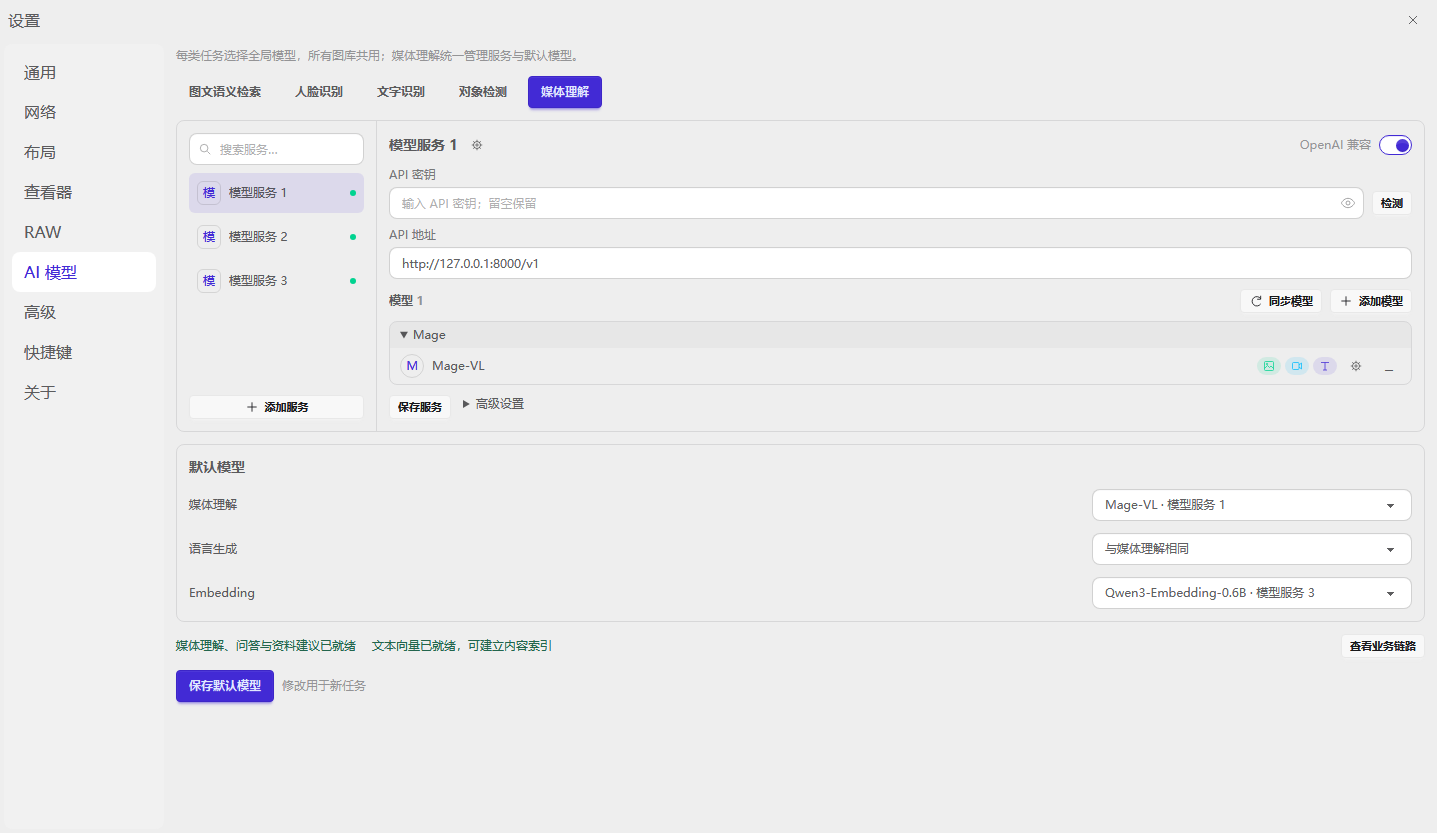
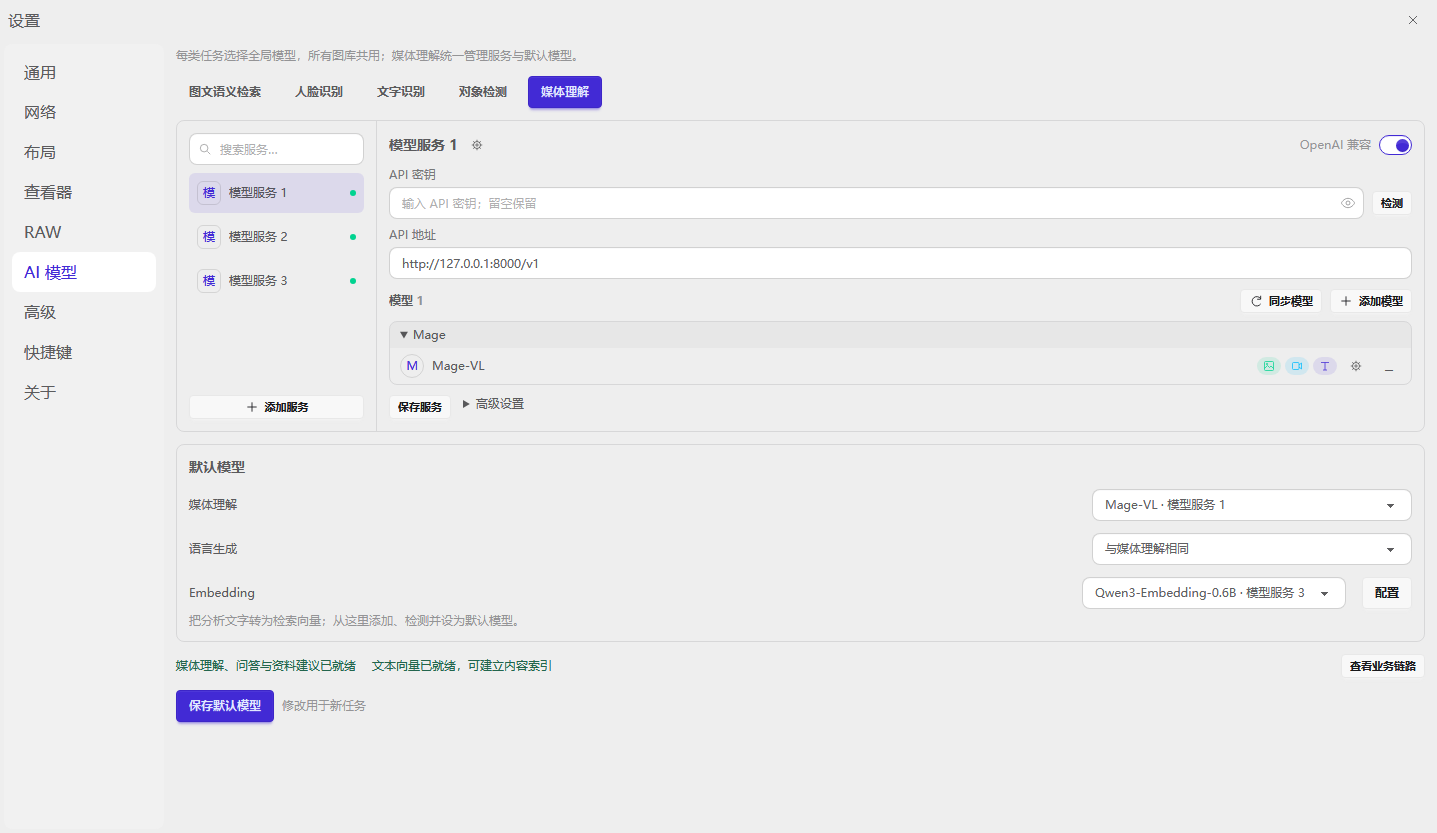
docs(design): 简化 Embedding 配置入口与默认绑定流程

diff --git a/design/media-understanding/views-embedding-setup.js b/design/media-understanding/views-embedding-setup.js
@@ -1,0 +1,70 @@
+// Design-only form: configuration and detection are kept in memory, with no network calls.
+let embeddingSetupSecret='';
+function openEmbeddingSetup({add=false,providerId=null,modelId=null}={}){
+  const model=add?null:modelId?MODELS.find(m=>m.id===modelId):roleModel('textEmbed');
+  const p=model?service(model.providerId):providerId?service(providerId):null;
+  const e=model?.embedding;
+  embeddingSetupSecret='';
+  App.state.embeddingDraft={modelId:model?.id||null,serviceId:p?.id||'new',serviceName:p?.name||'',baseUrl:p?.baseUrl||'',
+    remoteId:model?.remoteId||'',name:model?.name||'',preset:e?.queryInstruction===DEPLOYMENT.embedding.queryInstruction?'qwen3':e?.queryInstruction?'custom':'plain',
+    queryInstruction:e?.queryInstruction||'',detected:model&&modelReady(model)?e?.dimensions||null:null};
+  navigate(add?'embeddingAdd':'embedding');
+}
+function embeddingSetupView(add=false){
+  App.state.task='media';
+  if(!App.state.embeddingDraft){
+    const model=add?null:UI.model('embed-text-api'),p=model?service(model.providerId):null,e=model?.embedding;
+    App.state.embeddingDraft={modelId:model?.id||null,serviceId:p?.id||'new',serviceName:p?.name||'',baseUrl:p?.baseUrl||'',remoteId:model?.remoteId||'',name:model?.name||'',
+      preset:e?'qwen3':'plain',queryInstruction:e?.queryInstruction||'',detected:model&&modelReady(model)?e?.dimensions||null:null};
+  }
+  const d=App.state.embeddingDraft,existing=d.serviceId!=='new';
+  return UI.settingsWindow(`<p class="helper">把分析文字和搜索问题转为向量，用于语义检索。</p>${taskButtons()}<div class="between"><button class="text-button" data-nav="understand">‹ 返回模型服务</button>${!d.modelId?nativeButton('填入部署脚本示例','embedding-example'):nativeButton('添加其他 Embedding 模型','new-embedding')}</div>${configCard('服务连接',`${UI.field('所属服务',`<select class="select" data-embedding-setup="serviceId" aria-label="Embedding 所属服务"><option value="new" ${existing?'':'selected'}>＋ 添加新服务</option>${PROVIDERS.map(p=>`<option value="${p.id}" ${p.id===d.serviceId?'selected':''}>${UI.escape(service(p.id).name)}</option>`).join('')}</select>`)}${UI.field('API 地址',`<input class="input" data-embedding-setup="baseUrl" value="${UI.escape(d.baseUrl)}" placeholder="填写向量服务的 API 基础地址，例如 https://…/v1" aria-label="Embedding API 地址">`)}${UI.field('API Key',`<input class="input" type="password" data-embedding-setup="apiKey" value="${UI.escape(embeddingSetupSecret)}" autocomplete="off" placeholder="${existing?'留空保留该服务已保存的密钥':'按服务要求填写'}" aria-label="Embedding API Key">`)}<p class="helper">${existing?'复用并编辑所选服务的连接；保存后该服务下其他模型也使用同一地址和密钥。':'保存时创建一个可自由命名的服务；以后可在该服务下添加其他模型。'}</p>`)}${configCard('Embedding 模型',`${UI.field('Model ID',`<input class="input" data-embedding-setup="remoteId" value="${UI.escape(d.remoteId)}" placeholder="例如：qwen3-embedding-0.6b" aria-label="Embedding Model ID">`)}<p class="helper">从服务提供方复制向量模型 ID；它与上方的服务名称不同。</p><div class="row"><span class="badge badge-sm">文本 Embedding</span><span class="helper">用于分析描述与查询编码。</span></div>`)}<details class="provider-details"><summary>高级设置（通常无需修改）</summary><div class="embedding-advanced">${UI.field('服务显示名称',`<input class="input" data-embedding-setup="serviceName" value="${UI.escape(d.serviceName)}" placeholder="留空自动命名">`)}${UI.field('模型显示名称',`<input class="input" data-embedding-setup="name" value="${UI.escape(d.name)}" placeholder="留空使用 Model ID">`)}${UI.field('编码方案',`<select class="select" data-embedding-setup="preset" aria-label="Embedding 编码方案"><option value="plain" ${d.preset==='plain'?'selected':''}>通用文本</option><option value="qwen3" ${d.preset==='qwen3'?'selected':''}>Qwen3-Embedding 检索</option><option value="custom" ${d.preset==='custom'?'selected':''}>自定义查询指令</option></select>`)}${d.preset!=='plain'?UI.field('查询指令',`<input class="input" data-embedding-setup="queryInstruction" value="${UI.escape(d.queryInstruction)}">`):''}<p class="helper">维度由检测结果自动填写；查询和入库编码方案应与模型说明一致。</p></div></details><div class="embedding-detection" role="status"><strong id="embedding-detection-status">${d.detected?'检测通过 · 文本输入 → '+d.detected+' 维向量':'尚未检测'}</strong><p class="helper">分别验证正文与查询向量；不使用聊天请求检测向量模型。</p></div><div class="row wrap"><button class="btn btn-sm" data-action="test-embedding-setup">检测 Embedding</button><button class="btn btn-sm btn-primary" data-action="save-embedding-setup" ${d.detected?'':'disabled'}>保存并设为默认 Embedding</button></div>`,{title:'填写连接、检测并设为默认',notes:[['从默认项直接进入','媒体理解页的默认 Embedding 旁始终有“配置”按钮；未配置时可直接添加，已配置时可编辑或添加其他模型。无需知道某个预置服务编号。'],['最少只填写连接和 Model ID','选择已有服务，或在同一表单新建服务，填写 API 地址、按服务要求填写 Key、填写 Embedding Model ID。文本 Embedding 能力自动选中；检测读取维度。'],['一次保存完成绑定','检测通过后点击“保存并设为默认 Embedding”，创建或更新服务与模型并绑定默认用途。地址与密钥仍归属于服务，模型只引用服务，不复制连接。保存不会自动分析全库或创建向量任务。'],['高级参数折叠','显示名和查询编码放在高级设置。部署脚本示例自动填入 8002、固定 Model ID 和 Qwen3 查询方案；其他 API 按其模型说明配置。'],['原型边界','此表单只演示内存状态，不发送真实请求。密钥草稿不进入可导出的 App 状态或保存配置；正式实现应由 Rust 写入系统凭据库。']]});
+}
+function updateEmbeddingSetup(field,value,doc){
+  const d=App.state.embeddingDraft;
+  if(field==='apiKey')embeddingSetupSecret=value;else d[field]=value;
+  d.detected=null;
+  if(field==='serviceId'){
+    const p=value==='new'?null:service(value);d.baseUrl=p?.baseUrl||'';d.serviceName=p?.name||'';embeddingSetupSecret='';render();return;
+  }
+  if(field==='preset'){
+    d.queryInstruction=value==='qwen3'?DEPLOYMENT.embedding.queryInstruction:value==='plain'?'':d.queryInstruction;render();return;
+  }
+  if(doc){doc.getElementById('embedding-detection-status').textContent='配置已修改，请重新检测';doc.querySelector('[data-action=save-embedding-setup]').disabled=true;}
+}
+function testEmbeddingSetup(){
+  const d=App.state.embeddingDraft;
+  try{
+    const url=new URL(d.baseUrl.trim());
+    if(!['http:','https:'].includes(url.protocol)||url.username||url.password||url.search||url.hash)throw new Error();
+  }catch{toast('请填写不含密钥、查询参数或片段的 HTTP(S) API 基础地址。');return;}
+  if(!d.remoteId.trim()||d.remoteId.trim().length>256||/[\x00-\x1f\x7f]/.test(d.remoteId)){toast('请填写有效的 Embedding Model ID。');return;}
+  const known=MODELS.find(m=>m.providerId===d.serviceId&&m.remoteId===d.remoteId.trim());
+  if(known&&!known.caps.includes('embed_text')){toast('这个样例模型提供生成能力，请填写文本 Embedding 模型 ID。');return;}
+  // The real implementation learns this from the API; these are explicit design fixtures.
+  const model=MODELS.find(m=>m.id===d.modelId);
+  d.detected=d.preset==='qwen3'?DEPLOYMENT.embedding.dimensions:model?.embedding?.dimensions||1536;
+  render();toast('模拟文本向量检测通过；未请求真实 API。');
+}
+function saveEmbeddingSetup(){
+  const d=App.state.embeddingDraft;if(!d.detected){toast('请先检测 Embedding。');return;}
+  const fingerprint=model=>model?JSON.stringify([model.id,model.remoteId,model.modelRevision,model.embedding,service(model.providerId).baseUrl]):'';
+  const previous=fingerprint(roleModel('textEmbed'));
+  let providerId=d.serviceId;
+  if(providerId==='new'){
+    providerId='custom-'+(PROVIDERS.length+1);PROVIDERS.push({id:providerId,name:d.serviceName.trim()||'模型服务 '+(PROVIDERS.length+1),baseUrl:d.baseUrl.trim(),enabled:true});
+  }else{
+    const old=service(providerId),changed=old.baseUrl!==d.baseUrl.trim()||!!embeddingSetupSecret;
+    App.state.providerOverrides[providerId]={...App.state.providerOverrides[providerId],name:d.serviceName.trim()||old.name,baseUrl:d.baseUrl.trim(),enabled:true};
+    if(changed){App.state.dirtyProviders=[...new Set([...App.state.dirtyProviders,providerId])];MODELS.filter(m=>m.providerId===providerId).forEach(m=>delete App.state.verifiedModels[m.id]);}
+  }
+  let model=MODELS.find(m=>m.id===d.modelId)||MODELS.find(m=>m.providerId===providerId&&m.remoteId===d.remoteId.trim());
+  const embedding={format:'openai-text',dimensions:d.detected,documentEncoding:'plain-text',queryInstruction:d.preset==='plain'?'':d.queryInstruction};
+  if(!model){model={id:'embedding-custom-'+(MODELS.length+1),mode:'API',location:'API',group:'其他',caps:['embed_text'],api:'embeddings',modelRevision:'unknown'};MODELS.push(model);}
+  model.caps=[...new Set([...model.caps,'embed_text'])];
+  Object.assign(model,{providerId,remoteId:d.remoteId.trim(),name:d.name.trim()||d.remoteId.trim(),embedding,status:'ready',state:'示例已验证'});
+  if(previous!==fingerprint(model))App.state.indexBuilt=false;
+  App.state.verifiedModels[model.id]=true;App.state.roles.textEmbed=model.id;App.state.providerId=providerId;App.state.chainVerified=false;App.state.indexEnabled=true;
+  embeddingSetupSecret='';App.state.embeddingDraft=null;navigate('understand');toast('已在原型中保存并设为默认 Embedding；尚未建立新的媒体索引。');
+}
+const EmbeddingSetupViews={embedding(){return embeddingSetupView();},embeddingAdd(){return embeddingSetupView(true);}};

diff --git a/design/media-understanding/app.js b/design/media-understanding/app.js
@@ -1,4 +1,4 @@
-const VIEWS={...ServiceViews,...LibraryViews,...MediaViews,...FlowViews,...NativeSettingsViews};
+const VIEWS={...ServiceViews,...LibraryViews,...MediaViews,...FlowViews,...NativeSettingsViews,...EmbeddingSetupViews};
 let toastTimer;
 let messageSerial=10;
 function toast(text){const box=document.getElementById('toast');box.textContent=text;box.classList.add('visible');clearTimeout(toastTimer);toastTimer=setTimeout(()=>box.classList.remove('visible'),3000);}
@@ -84,7 +84,7 @@ function startJob(){
   if(roles.some(role=>!roleReady(role))){toast('所选服务已停用或模型能力待验证，请到默认模型检查。');return;}
   if(scopeData().videos&&!UI.model(App.state.roles.video).caps.includes('video_frames')){toast('当前媒体理解模型未提供视频采样帧能力，请修改本次范围或模型。');return;}
   App.state.createdJobs++;App.state.jobScope=App.state.scope;App.state.jobStopped=false;
-  App.state.job={scope:App.state.scope,roles:{...App.state.roles},providers:PROVIDERS.map(p=>({...service(p.id)})),indexEnabled:App.state.indexEnabled,fields:{...App.state.fields},existingTagsOnly:App.state.existingTagsOnly};
+  App.state.job={scope:App.state.scope,roles:{...App.state.roles},providers:PROVIDERS.map(p=>({...service(p.id)})),models:JSON.parse(JSON.stringify(MODELS)),indexEnabled:App.state.indexEnabled,fields:{...App.state.fields},existingTagsOnly:App.state.existingTagsOnly};
   if(App.state.indexEnabled)App.state.indexBuilt=true;
   navigate('task');
 }
@@ -95,7 +95,7 @@ function runSearch(){
 }
 function handleClick(event){
   const provider=event.target.closest('[data-provider]');if(provider){App.state.providerId=provider.dataset.provider;App.state.apiTested=false;App.state.renamingService=false;navigate('api');return;}
-  const modelSettings=event.target.closest('[data-model-settings]');if(modelSettings){App.state.editingModelId=modelSettings.dataset.modelSettings;App.state.providerId=UI.model(App.state.editingModelId).providerId;navigate('model');return;}
+  const modelSettings=event.target.closest('[data-model-settings]');if(modelSettings){App.state.editingModelId=modelSettings.dataset.modelSettings;const model=UI.model(App.state.editingModelId);App.state.providerId=model.providerId;if(model.caps.includes('embed_text'))openEmbeddingSetup({modelId:model.id});else navigate('model');return;}
   const task=event.target.closest('[data-task]');if(task){App.state.task=task.dataset.task;navigate(App.state.task==='media'?'understand':'models');return;}
   const cap=event.target.closest('[data-filter]');if(cap){App.state.filter=cap.dataset.filter;render();return;}
   const indexFilter=event.target.closest('[data-index-filter]');if(indexFilter){indexFilter.parentElement.querySelectorAll('button').forEach(b=>b.classList.remove('active'));indexFilter.classList.add('active');toast('示例：筛选分析与索引状态。');return;}
@@ -108,12 +108,16 @@ function handleClick(event){
   if(action==='rename-service'){App.state.renamingService=true;render();return;}
   if(action==='toggle-api-key'){const field=target.ownerDocument.getElementById('service-api-key');field.type=field.type==='password'?'text':'password';target.setAttribute('aria-label',field.type==='password'?'显示 API 密钥':'隐藏 API 密钥');return;}
   if(action==='remove-provider-model'){toast('移除模型入口示意；实际操作前检查默认用途和任务引用。');return;}
-  if(action==='setup-embedding'){App.state.providerId='service-3';navigate('api');return;}
+  if(action==='setup-embedding'){openEmbeddingSetup({add:!roleModel('textEmbed')});return;}
+  if(action==='new-embedding'){openEmbeddingSetup({add:true});return;}
+  if(action==='test-embedding-setup'){testEmbeddingSetup();return;}
+  if(action==='save-embedding-setup'){saveEmbeddingSetup();return;}
+  if(action==='embedding-example'){embeddingSetupSecret='';const d=App.state.embeddingDraft,p=service('service-3'),m=UI.model('embed-text-api');Object.assign(d,{modelId:m.id,serviceId:p.id,serviceName:p.name,baseUrl:p.baseUrl,remoteId:m.remoteId,name:m.name,preset:'qwen3',queryInstruction:DEPLOYMENT.embedding.queryInstruction,detected:null});render();return;}
   if(action==='use-embedding'){const m=UI.model(App.state.editingModelId);if(!m.caps.includes('embed_text')||!modelReady(m)){toast('请先启用服务并检测文档／查询向量。');return;}App.state.roles.textEmbed=m.id;App.state.indexEnabled=true;navigate('understand');return;}
   if(action==='verify-chain'){if(!roleReady('image','image')||!roleReady('text','text')||!roleReady('textEmbed','embed_text')){toast('请先完成所需模型配置与能力检测。');return;}App.state.chainVerified=true;render();toast('已模拟验证图文、结构化分析、入库／查询向量、持久化召回和证据问答；未请求真实服务。');return;}
   if(action==='remote-guide'){window.open('../../scripts/ai-server/README.md','_blank');return;}
   if(action==='sync-models'){toast('模拟同步当前服务模型；不改变默认模型，未发送真实网络请求。');return;}
-  if(action==='add-provider-model'){toast('示例：可手填服务端模型 ID；不支持列举模型的服务也可配置。');return;}
+  if(action==='add-provider-model'){const rows=MODELS.filter(m=>m.providerId===App.state.providerId);if(rows.length&&rows.every(m=>m.caps.includes('embed_text'))){openEmbeddingSetup({add:true,providerId:App.state.providerId});return;}toast('示例：可手填服务端模型 ID；Embedding 也可从默认项旁的配置入口添加。');return;}
   if(action==='check-model'){const m=UI.model(App.state.editingModelId);if(m.caps.includes('embed_multimodal')){toast('多模态 Embedding 接口尚未接入，当前保持待验证。');return;}if(m.caps.includes('embed_text')&&(!m.embedding||!Number.isInteger(m.embedding.dimensions)||m.embedding.dimensions<1||m.embedding.dimensions>8192)){toast('请补全向量接口与维度配置。');return;}m.status='ready';m.state='示例已验证';App.state.verifiedModels[m.id]=true;render();toast('模拟能力检测通过；没有调用真实模型。');return;}
   if(action==='save-model'){toast('模型属性保存示意；连接信息仍继承所属服务。');return;}
   if(VIEWS[action]){navigate(action);return;}
@@ -169,11 +173,12 @@ function handleClick(event){
 document.addEventListener('click',handleClick);
 function handleChange(event){
   const el=event.target;
+  if(el.dataset.embeddingSetup){updateEmbeddingSetup(el.dataset.embeddingSetup,el.value,el.ownerDocument);return;}
   if(el.dataset.embeddingField){const m=UI.model(App.state.editingModelId),key=el.dataset.embeddingField;m.embedding||={format:'openai-text',dimensions:1024,documentEncoding:'plain-text',queryInstruction:''};m.embedding[key]=key==='dimensions'?Number(el.value):el.value;m.status='untested';m.state='编码方案待验证';delete App.state.verifiedModels[m.id];App.state.chainVerified=false;render();return;}
   if(el.hasAttribute('data-ai-model')){App.state.nativeEditingByTask={...App.state.nativeEditingByTask,[App.state.task]:el.value};App.state.editingModelId=el.value;render();return;}
   if(el.dataset.providerEnabled){App.state.chainVerified=false;const id=el.dataset.providerEnabled;App.state.providerOverrides[id]={...App.state.providerOverrides[id],enabled:el.checked};render();return;}
   if(el.dataset.modelField||el.dataset.modelCap){const m=UI.model(App.state.editingModelId);if(el.dataset.modelField)m[el.dataset.modelField]=el.value;else{const caps=new Set(m.caps);el.checked?caps.add(el.dataset.modelCap):caps.delete(el.dataset.modelCap);m.caps=[...caps];}if(el.dataset.modelCap||el.dataset.modelField==='remoteId'){App.state.chainVerified=false;m.status='untested';m.state='待验证';delete App.state.verifiedModels[m.id];}render();return;}
-  if(el.dataset.serviceField){const id=App.state.providerId,key=el.dataset.serviceField;App.state.providerOverrides[id]={...App.state.providerOverrides[id],[key]:el.value};if(key==='name')App.state.renamingService=false;if(key==='baseUrl'){App.state.chainVerified=false;App.state.apiTested=false;App.state.dirtyProviders=[...new Set([...App.state.dirtyProviders,id])];MODELS.filter(m=>m.providerId===id).forEach(m=>delete App.state.verifiedModels[m.id]);}render();return;}
+  if(el.dataset.serviceField){const id=App.state.providerId,key=el.dataset.serviceField;App.state.providerOverrides[id]={...App.state.providerOverrides[id],[key]:el.value};if(key==='name')App.state.renamingService=false;if(key==='baseUrl'){if(roleModel('textEmbed')?.providerId===id)App.state.indexBuilt=false;App.state.chainVerified=false;App.state.apiTested=false;App.state.dirtyProviders=[...new Set([...App.state.dirtyProviders,id])];MODELS.filter(m=>m.providerId===id).forEach(m=>delete App.state.verifiedModels[m.id]);}render();return;}
   if(el.id==='compact-provider'){App.state.providerId=el.value;App.state.apiTested=false;App.state.renamingService=false;navigate('api');return;}
   if(el.id==='screen-select'){const s=SCREENS[Number(el.value)];navigate(s.id,Object.fromEntries(new URLSearchParams(s.query||'')));return;}
   if(el.dataset.role){const role=el.dataset.role;if(role==='text'){App.state.followMediaForText=el.value==='@media';App.state.roles.text=App.state.followMediaForText?App.state.roles.image:el.value;}else App.state.roles[role]=el.value;if(role==='image'){App.state.roles.video=el.value;if(App.state.followMediaForText)App.state.roles.text=el.value;}App.state.chainVerified=false;render();return;}
@@ -184,6 +189,7 @@ function handleChange(event){
 }
 document.addEventListener('change',handleChange);
 function handleInput(event){
+  if(event.target.dataset.embeddingSetup){updateEmbeddingSetup(event.target.dataset.embeddingSetup,event.target.value,event.target.ownerDocument);return;}
   if(event.target.id!=='provider-search')return;
   App.state.providerSearch=event.target.value;
   const doc=event.target.ownerDocument,query=App.state.providerSearch.trim().toLowerCase();

diff --git a/design/media-understanding/views-media.js b/design/media-understanding/views-media.js
@@ -7,18 +7,18 @@ function photoStage({detail=false}={}) {
 }
 function qaMessage(m) {
   if(m.role==='user')return `<div class="qa-message user"><span class="message-label">你</span><p>${UI.escape(m.text)}</p></div>`;
-  return `<div class="qa-message assistant" data-msg="${m.id}"><div class="between"><span class="message-label">${m.basis==='visual'?'根据本次视觉复核':m.basis==='insufficient'?'已有证据不足':'根据已保存记录'}</span>${UI.pill(m.basis==='visual'?'已复核当前图片':m.basis==='insufficient'?'无法确定':'未重读原图',m.basis==='insufficient'?'warn':'')}</div><p>${UI.escape(m.text)}</p>${m.ref?`<div class="source-row">${UI.sourceChip(m.ref)}${m.basis!=='insufficient'?'<button class="text-button" data-action="adopt-answer">采用为说明</button>':''}</div>`:''}${m.basis==='insufficient'?`<div class="inspection-request"><span>仅检查当前图片 1 张，使用 ${modelName('image')}。</span>${UI.button('复核当前图片','inspect-current','small quiet','image')}</div>`:''}${m.basis==='visual'?`<div class="inspection-proof"><img src="assets/building-detail.jpg" alt="从示例原图截取的复核区域"><span>依据：当前图片区域<br>范围：仅此图片<br>正式资料：未自动修改</span></div>`:''}</div>`;
+  return `<div class="qa-message assistant" data-msg="${m.id}"><div class="between"><span class="message-label">${m.basis==='visual'?'根据本次视觉复核':m.basis==='insufficient'?'已有证据不足':'根据已保存记录'}</span>${UI.pill(m.basis==='visual'?'已复核当前图片':m.basis==='insufficient'?'无法确定':'未重读原图',m.basis==='insufficient'?'warn':'')}</div><p>${UI.escape(m.text)}</p>${m.ref?`<div class="source-row">${UI.sourceChip(m.ref)}${m.basis!=='insufficient'?'<button class="text-button" data-action="adopt-answer">采用为说明</button>':''}</div>`:''}${m.basis==='insufficient'?`<div class="inspection-request"><span>仅检查当前图片 1 张，使用 ${UI.escape(modelName('image'))}。</span>${UI.button('复核当前图片','inspect-current','small quiet','image')}</div>`:''}${m.basis==='visual'?`<div class="inspection-proof"><img src="assets/building-detail.jpg" alt="从示例原图截取的复核区域"><span>依据：当前图片区域<br>范围：仅此图片<br>正式资料：未自动修改</span></div>`:''}</div>`;
 }
 const MediaViews={
   viewer() {
-    return UI.shell(`<div class="v2-viewer">${mediaToolbar('analysis')}<div class="viewer-layout">${photoStage()}<aside class="v2-analysis-panel">${mediaPanelHeader()}<div class="panel-tabs"><button class="active">分析记录</button><button data-nav="qa">针对本图提问</button></div><div class="v2-panel-scroll"><div class="between"><h3>图片理解</h3>${UI.pill('分析已保存','ok')}</div><div class="analysis-source"><span>${modelName('image')} · ${UI.model(App.state.roles.image).location}</span><button class="text-button" data-action="reanalyze-current">重新分析</button></div><div class="analysis-text"><p>群山与森林环绕着平静的湖面，近处的木屋依水而建。云雾掠过山间，山体与天空倒映在水中。</p><div class="source-row">${UI.sourceChip('分析记录 A1048')}${UI.pill('文本向量已就绪','ok')}</div></div>
+    return UI.shell(`<div class="v2-viewer">${mediaToolbar('analysis')}<div class="viewer-layout">${photoStage()}<aside class="v2-analysis-panel">${mediaPanelHeader()}<div class="panel-tabs"><button class="active">分析记录</button><button data-nav="qa">针对本图提问</button></div><div class="v2-panel-scroll"><div class="between"><h3>图片理解</h3>${UI.pill('分析已保存','ok')}</div><div class="analysis-source"><span>${UI.escape(modelName('image'))} · ${UI.model(App.state.roles.image).location}</span><button class="text-button" data-action="reanalyze-current">重新分析</button></div><div class="analysis-text"><p>群山与森林环绕着平静的湖面，近处的木屋依水而建。云雾掠过山间，山体与天空倒映在水中。</p><div class="source-row">${UI.sourceChip('分析记录 A1048')}${UI.pill('文本向量已就绪','ok')}</div></div>
       <div class="generated-field"><div class="generated-label"><span>标题建议</span><span class="small-label">正式标题：${App.state.title?'已填写':'空白'}</span></div><div class="suggestion"><div id="title-proposal" class="suggestion-title" contenteditable="true" role="textbox" aria-label="标题建议">山湖与木屋</div><div class="actions">${UI.button('采用标题','adopt-title','small primary','check')}</div></div></div>
       <div class="generated-field"><div class="generated-label"><span>说明建议</span><button class="text-button" data-action="polish-description">用语言模型润色</button></div><div class="suggestion"><p id="description-proposal" contenteditable="true" role="textbox" aria-label="说明建议">群山、森林与湖畔木屋相映，平静的水面映出山体和天空。</p><div class="actions">${UI.button('采用说明','adopt-description','small quiet')}</div></div></div>
       <div class="generated-field"><div class="generated-label"><span>标签建议</span><span class="small-label">匹配现有标签</span></div><div class="tag-proposals">${['湖泊','山峰','森林','木屋'].map(t=>`<button class="tag ${App.state.rejectedTags?.includes(t)?'rejected':''}" data-tag="${t}">${t}${App.state.rejectedTags?.includes(t)?' · 已拒绝':' ×'}</button>`).join('')}</div><div class="between"><span class="helper">点击标签可拒绝本项建议。</span>${UI.button('采用其余标签','adopt-tags','small quiet','tag')}</div></div>${UI.note('分析记录与正式资料分开。采用后按源版本和字段修订号保存，保护人工编辑。')}</div></aside></div></div>`,{kind:'viewer',status:'当前图片 · 已有分析可直接展示 · 采用操作才更新正式资料'});
   },
   qa() {
     const inspected=App.state.qaInspected;
-    return UI.shell(`<div class="v2-viewer">${mediaToolbar('qa')}<div class="viewer-layout">${photoStage({detail:inspected})}<aside class="qa-panel">${mediaPanelHeader()}<div class="qa-header"><div class="between"><h3>针对当前图片提问</h3><button class="text-button" data-action="clear-qa">清空本图会话</button></div><div class="analysis-source">回答：${modelName('text')}<span>·</span>复核：${modelName('image')}</div><div class="scope-line">${icon('shield',12)}当前图库 / 图片 #1048，未访问全库</div></div><div class="qa-history" id="qa-history">${App.state.qaMessages.length?App.state.qaMessages.map(qaMessage).join(''):`<div class="qa-empty">${icon('chat',25)}<h3>从这张图片开始</h3><p>先读取本图分析和已有标注。新问题仍需生成回答，但不重新分析整个图库。</p>${UI.button('概括这张图片','ask-summary','quiet')}</div>`}</div><div class="qa-footer"><div class="qa-mode"><span>${UI.pill(inspected?'本会话已复核 1 张图片':'先用已有记录','brand')}</span><span class="helper">资料写入仅由“采用”触发</span></div><div class="qa-composer"><input id="photo-question" aria-label="当前图片问题" placeholder="询问当前图片的内容或细节…">${UI.button('发送','ask-photo','primary','arrow')}</div><div class="question-examples"><button data-action="ask-summary">概括这张图片</button><button data-action="ask-detail">右侧尖顶建筑是什么？</button></div><div class="helper">证据不足会说明原因；复核仅针对当前媒体，不触发全库分析。</div></div></aside></div></div>`,{kind:'viewer',status:'单媒体问答 · 证据检索 → 回答 → 按需视觉复核 → 引用来源'});
+    return UI.shell(`<div class="v2-viewer">${mediaToolbar('qa')}<div class="viewer-layout">${photoStage({detail:inspected})}<aside class="qa-panel">${mediaPanelHeader()}<div class="qa-header"><div class="between"><h3>针对当前图片提问</h3><button class="text-button" data-action="clear-qa">清空本图会话</button></div><div class="analysis-source">回答：${UI.escape(modelName('text'))}<span>·</span>复核：${UI.escape(modelName('image'))}</div><div class="scope-line">${icon('shield',12)}当前图库 / 图片 #1048，未访问全库</div></div><div class="qa-history" id="qa-history">${App.state.qaMessages.length?App.state.qaMessages.map(qaMessage).join(''):`<div class="qa-empty">${icon('chat',25)}<h3>从这张图片开始</h3><p>先读取本图分析和已有标注。新问题仍需生成回答，但不重新分析整个图库。</p>${UI.button('概括这张图片','ask-summary','quiet')}</div>`}</div><div class="qa-footer"><div class="qa-mode"><span>${UI.pill(inspected?'本会话已复核 1 张图片':'先用已有记录','brand')}</span><span class="helper">资料写入仅由“采用”触发</span></div><div class="qa-composer"><input id="photo-question" aria-label="当前图片问题" placeholder="询问当前图片的内容或细节…">${UI.button('发送','ask-photo','primary','arrow')}</div><div class="question-examples"><button data-action="ask-summary">概括这张图片</button><button data-action="ask-detail">右侧尖顶建筑是什么？</button></div><div class="helper">证据不足会说明原因；复核仅针对当前媒体，不触发全库分析。</div></div></aside></div></div>`,{kind:'viewer',status:'单媒体问答 · 证据检索 → 回答 → 按需视觉复核 → 引用来源'});
   },
   video() {
     const times=['00:00','00:12','00:24','00:36','00:48','01:00','01:12','01:24'];

diff --git a/design/media-understanding/views-library.js b/design/media-understanding/views-library.js
@@ -26,7 +26,7 @@ const LibraryViews={
       <div class="form-card"><div class="section-head"><span class="step-badge">2</span><h3>分析与检索</h3></div><div class="check static-check"><span class="checked-square">✓</span><div><b>保存结构化分析记录</b><small>描述、内容线索、视频片段与来源信息。</small></div></div><label class="check"><input id="index-enabled" type="checkbox" ${App.state.indexEnabled?'checked':''} ${embeddingAvailable?'':'disabled'}><span><b>生成内容向量，供自然语言检索</b><small>${embeddingAvailable?'分析文字经文本 Embedding 编码；查询使用匹配的编码方案。':'尚未配置文本 Embedding；本次可继续分析及填充资料，稍后单独建立向量。'}</small></span></label></div>
       <div class="form-card"><div class="section-head"><span class="step-badge">3</span><h3>可选：补充正式资料</h3></div><div class="fill-targets">${fields.map(([key,label,count])=>`<label class="fill-choice ${App.state.fields[key]?'chosen':''}"><input type="checkbox" data-fill-field="${key}" ${App.state.fields[key]?'checked':''}><b>${label}</b><small>${count} 项可补</small></label>`).join('')}</div><p class="helper">仅填空白；已存在和处理中被人工修改的标题、说明保留。</p><label class="check"><input id="existing-tags-only" type="checkbox" ${App.state.existingTagsOnly?'checked':''}><span><b>标签优先使用已有词表</b><small>新标签先作为建议；拒绝过的 AI 标签不反复加回。</small></span></label></div>
       <div class="commit-bar"><span class="helper">只写图库数据库，不修改原文件。</span><div class="row">${UI.button('查看样例','preview-sample','quiet','image')}${UI.button('开始处理 '+n(s.count)+' 项','start-index-job','primary','play')}</div></div></section>
-      <aside class="info-aside"><h3>本次使用</h3><div class="assignment-block"><span>图片／视频分析</span><strong>${modelName('image')}</strong>${UI.pill(UI.model(App.state.roles.image).location,'local')}</div><div class="assignment-block"><span>分析文本向量</span><strong>${App.state.indexEnabled?modelName('textEmbed'):'本次不生成向量'}</strong>${App.state.indexEnabled?UI.pill('API','local'):''}</div><button class="text-button" data-nav="routing">调整默认用途</button><div class="divider"></div><h3>任务预检 · 示例</h3><div class="receipt-row"><span>媒体总数</span><b>${n(s.count)}</b></div><div class="receipt-row"><span>可复用分析</span><b>${n(s.analysisReuse)}</b></div><div class="receipt-row"><span>待运行分析</span><b>${n(s.count-s.analysisReuse)}</b></div><div class="receipt-row"><span>可复用向量</span><b>${App.state.indexEnabled?n(s.vectorReuse):'—'}</b></div><div class="receipt-row"><span>待建向量的媒体</span><b>${App.state.indexEnabled?n(s.count-s.vectorReuse):'—'}</b></div>${UI.note('向量模型变化时，可以复用有效分析文本，只重新编码向量。')}<p class="helper">媒体会发送至所选分析部署；任务不会自动切换服务。此预览没有真实传输。</p></aside></div>`,{active:'workspace',status:`${s.name} · ${n(s.count)} 项 · 范围与部署将在提交时快照化`});
+      <aside class="info-aside"><h3>本次使用</h3><div class="assignment-block"><span>图片／视频分析</span><strong>${UI.escape(modelName('image'))}</strong>${UI.pill(UI.model(App.state.roles.image).location,'local')}</div><div class="assignment-block"><span>分析文本向量</span><strong>${App.state.indexEnabled?modelName('textEmbed'):'本次不生成向量'}</strong>${App.state.indexEnabled?UI.pill('API','local'):''}</div><button class="text-button" data-nav="routing">调整默认用途</button><div class="divider"></div><h3>任务预检 · 示例</h3><div class="receipt-row"><span>媒体总数</span><b>${n(s.count)}</b></div><div class="receipt-row"><span>可复用分析</span><b>${n(s.analysisReuse)}</b></div><div class="receipt-row"><span>待运行分析</span><b>${n(s.count-s.analysisReuse)}</b></div><div class="receipt-row"><span>可复用向量</span><b>${App.state.indexEnabled?n(s.vectorReuse):'—'}</b></div><div class="receipt-row"><span>待建向量的媒体</span><b>${App.state.indexEnabled?n(s.count-s.vectorReuse):'—'}</b></div>${UI.note('向量模型变化时，可以复用有效分析文本，只重新编码向量。')}<p class="helper">媒体会发送至所选分析部署；任务不会自动切换服务。此预览没有真实传输。</p></aside></div>`,{active:'workspace',status:`${s.name} · ${n(s.count)} 项 · 范围与部署将在提交时快照化`});
   },
   task() {
     const s=SCOPES[App.state.jobScope]||SCOPES.selected;

diff --git a/design/media-understanding/screens.js b/design/media-understanding/screens.js
@@ -4,7 +4,9 @@ const SCREENS = [
   {id:'understand',title:'媒体理解统一配置',file:'17-media-model.png',group:'模型与服务',caption:'参考附图：左侧搜索和选择服务，右侧配置密钥、地址与分组模型，下方保留三个默认模型选择。'},
   {id:'api',title:'文本向量服务',file:'08-api-connection.png',group:'模型与服务',query:'provider=service-3',caption:'生成与向量服务独立部署，地址和模型 ID 直接来自部署脚本；服务不按部署位置分类。'},
   {id:'model',title:'模型能力标记',file:'16-model-properties.png',group:'模型与服务',caption:'模型归属服务；标记图片、视频、文本生成和向量能力，用于筛选默认模型。'},
-  {id:'embedding',title:'文本 Embedding 编码契约',file:'21-embedding-contract.png',group:'模型与服务',caption:'标准文本向量接口、1024 维、正文编码与查询指令，对应实际部署配置。'},
+  {id:'embedding',title:'配置 Embedding 并设为默认',file:'21-embedding-contract.png',group:'模型与服务',caption:'从默认 Embedding 旁的配置按钮进入；填写连接和 Model ID，检测后一次保存并绑定。'},
+  {id:'embeddingAdd',title:'添加 Embedding 服务与模型',file:'24-add-embedding.png',group:'模型与服务',caption:'单个表单选择已有或新建服务，填写 API 地址、Key 和 Model ID；能力已选好，维度由检测读取。'},
+  {id:'embeddingAdd',title:'添加 Embedding 最小窗口',file:'25-embedding-compact.png',group:'窗口适配',query:'size=compact',caption:'同一配置表单在最小设置窗口内滚动，按钮与验证结果可到达。'},
   {id:'verification',title:'验证业务链路',file:'22-workflow-verification.png',group:'模型与服务',caption:'按图文输入、结构化分析、入库／查询向量、持久化召回和证据问答逐段验证。'},
   {id:'understand',title:'仅部署生成模型',file:'20-generation-only.png',group:'模型与服务',query:'scenario=generation-only',caption:'Mage／Qwen-VL 可以支持理解、问答和资料建议；缺少 Embedding 时不承诺描述向量检索。'},
   {id:'understand',title:'媒体理解最小窗口适配',file:'19-media-compact.png',group:'窗口适配',query:'size=compact',caption:'同一组件与 CSS 在 600×620 最小窗口自然换行和滚动，不另建紧凑版页面。'},

diff --git a/design/media-understanding/native-frame.css b/design/media-understanding/native-frame.css
@@ -41,6 +41,7 @@ body{font-family:var(--font-sans);font-size:16px;line-height:1.5}
 @media(max-width:850px){.service-browser{grid-template-columns:minmax(0,1fr)}.provider-sidebar{display:none}.compact-provider-picker{display:flex}.provider-detail-header .helper{font-size:11px}.provider-detail .provider-model-row{padding:6px;gap:6px}.model-pending{display:none}.model-capability{width:20px}.provider-detail .model-avatar{display:none}}
 .provider-details{font-size:12px}.provider-details summary{cursor:pointer}.provider-details p,.provider-details .check{margin-top:8px}
 .compact-role{display:grid;grid-template-columns:minmax(140px,1fr) minmax(160px,320px);gap:4px 16px;align-items:center}.compact-role .select{width:100%}.compact-role .helper{grid-column:1/-1}
+.compact-role.with-config{grid-template-columns:minmax(140px,1fr) minmax(160px,264px) auto}.embedding-advanced{display:flex;flex-direction:column;gap:12px;margin-top:12px}.embedding-advanced .input,.embedding-advanced .select{width:100%}.embedding-detection{padding:12px;border:1px solid color-mix(in oklab,var(--color-base-content) 10%,transparent);border-radius:var(--radius-box);font-size:12px;line-height:20px}
 .cap-line,.service-shortcuts{display:flex;gap:8px;flex-wrap:wrap}.service-tip,.test-status{display:flex;gap:8px;align-items:center;opacity:.6;font-size:12px;line-height:16px}.service-tip svg,.test-status svg{width:14px;height:14px;flex:none;fill:none;stroke:currentColor;stroke-width:1.5}
 .icon-button{width:24px;height:24px;padding:4px;border:0;background:none}.icon-button svg{width:16px;height:16px;fill:none;stroke:currentColor;stroke-width:1.4}
 .btn>svg{width:14px;height:14px;fill:none;stroke:currentColor;stroke-width:1.5}
@@ -50,3 +51,4 @@ body{font-family:var(--font-sans);font-size:16px;line-height:1.5}
 .success{color:var(--color-success)}.warning{color:var(--color-warning)}.muted{opacity:.6}
 .provider-row svg{width:12px;height:12px;fill:none;stroke:currentColor;stroke-width:1.5}
 @media(max-width:700px){.compact-role{grid-template-columns:minmax(110px,1fr) minmax(130px,220px)}.compact-engine span{min-width:0;flex:1}}
+@media(max-width:700px){.compact-role.with-config{grid-template-columns:110px minmax(0,1fr) auto;gap:4px 8px}}

diff --git a/design/media-understanding/ui.js b/design/media-understanding/ui.js
@@ -9,7 +9,7 @@ const UI = {
   model(id) { return MODELS.find(m=>m.id===id)||MODELS[0]; },
   options(cap, selected) {
     const rows=MODELS.filter(m=>!cap||m.caps.includes(cap));
-    return `<option value="" ${selected?'':'selected'}>未配置</option>`+[...new Set(rows.map(m=>m.providerId||'local'))].map(id=>`<optgroup label="${id==='local'?'本地模型':service(id).name}">${rows.filter(m=>(m.providerId||'local')===id).map(m=>`<option value="${m.id}" ${m.id===selected?'selected':''} ${modelReady(m)?'':'disabled'}>${modelLabel(m)}${modelReady(m)?'':' · 不可用／待验证'}</option>`).join('')}</optgroup>`).join('');
+    return `<option value="" ${selected?'':'selected'}>未配置</option>`+[...new Set(rows.map(m=>m.providerId||'local'))].map(id=>`<optgroup label="${id==='local'?'本地模型':UI.escape(service(id).name)}">${rows.filter(m=>(m.providerId||'local')===id).map(m=>`<option value="${m.id}" ${m.id===selected?'selected':''} ${modelReady(m)?'':'disabled'}>${UI.escape(modelLabel(m))}${modelReady(m)?'':' · 不可用／待验证'}</option>`).join('')}</optgroup>`).join('');
   },
   field(label, control, help='') { return `<div class="field"><label class="field-label">${label}</label>${control}${help?`<span class="helper">${help}</span>`:''}</div>`; },
   note(text, kind='info') { return `<div class="note">${icon(kind,14)}<span>${text}</span></div>`; },

diff --git a/design/media-understanding/views-services.js b/design/media-understanding/views-services.js
@@ -14,7 +14,7 @@ function serviceConnection(p){
 }
 function workflowReadiness(){
   const understanding=roleReady('image','image')&&roleReady('text','text'),embedding=roleReady('textEmbed','embed_text');
-  return `<div class="workflow-readiness"><span class="${understanding?'success':'warning'}">${understanding?'媒体理解、问答与资料建议已就绪':'媒体理解模型待配置／检测'}</span><span class="${embedding?'success':'warning'}">${embedding?'文本向量已就绪，可建立内容索引':'未配置文本 Embedding；理解与资料填充仍可使用'}</span><div class="row">${!embedding?nativeButton('配置向量模型','setup-embedding'):''}<button class="btn btn-xs" data-action="verification">查看业务链路</button></div></div>`;
+  return `<div class="workflow-readiness"><span class="${understanding?'success':'warning'}">${understanding?'媒体理解、问答与资料建议已就绪':'媒体理解模型待配置／检测'}</span><span class="${embedding?'success':'warning'}">${embedding?'文本向量已就绪，可建立内容索引':'未配置文本 Embedding；理解与资料填充仍可使用'}</span><div class="row"><button class="btn btn-xs" data-action="verification">查看业务链路</button></div></div>`;
 }
 function embeddingFields(m){
   if(!m.caps.includes('embed_text'))return '';

diff --git a/design/media-understanding/views-config.js b/design/media-understanding/views-config.js
@@ -6,5 +6,7 @@ function taskButtons(){
 function configCard(title,body){return `<section class="setting-card"><h3>${title}</h3>${body}</section>`;}
 function compactRole(label,role,cap,help=''){
   const follow=role==='text'?`<option value="@media" ${App.state.followMediaForText?'selected':''} ${roleReady('image','text')?'':'disabled'}>与媒体理解相同</option>`:'';
-  return `<div class="compact-role"><label for="route-${role}">${label}</label><select id="route-${role}" class="select" data-role="${role}">${follow}${UI.options(cap,role==='text'&&App.state.followMediaForText?'@media':App.state.roles[role])}</select>${help?`<p class="helper">${help}</p>`:''}</div>`;
+  const configure=role==='textEmbed'?nativeButton('配置','setup-embedding'):'';
+  if(role==='textEmbed'&&!help)help='把分析文字转为检索向量；从这里添加、检测并设为默认模型。';
+  return `<div class="compact-role ${configure?'with-config':''}"><label for="route-${role}">${label}</label><select id="route-${role}" class="select" data-role="${role}">${follow}${UI.options(cap,role==='text'&&App.state.followMediaForText?'@media':App.state.roles[role])}</select>${configure}${help?`<p class="helper">${help}</p>`:''}</div>`;
 }

diff --git a/design/media-understanding/index.html b/design/media-understanding/index.html
@@ -25,6 +25,7 @@
   <script src="ui.js"></script>
   <script src="views-config.js"></script>
   <script src="views-services.js"></script>
+  <script src="views-embedding-setup.js"></script>
   <script src="views-native-settings.js"></script>
   <script src="views-library.js"></script>
   <script src="views-media.js"></script>
